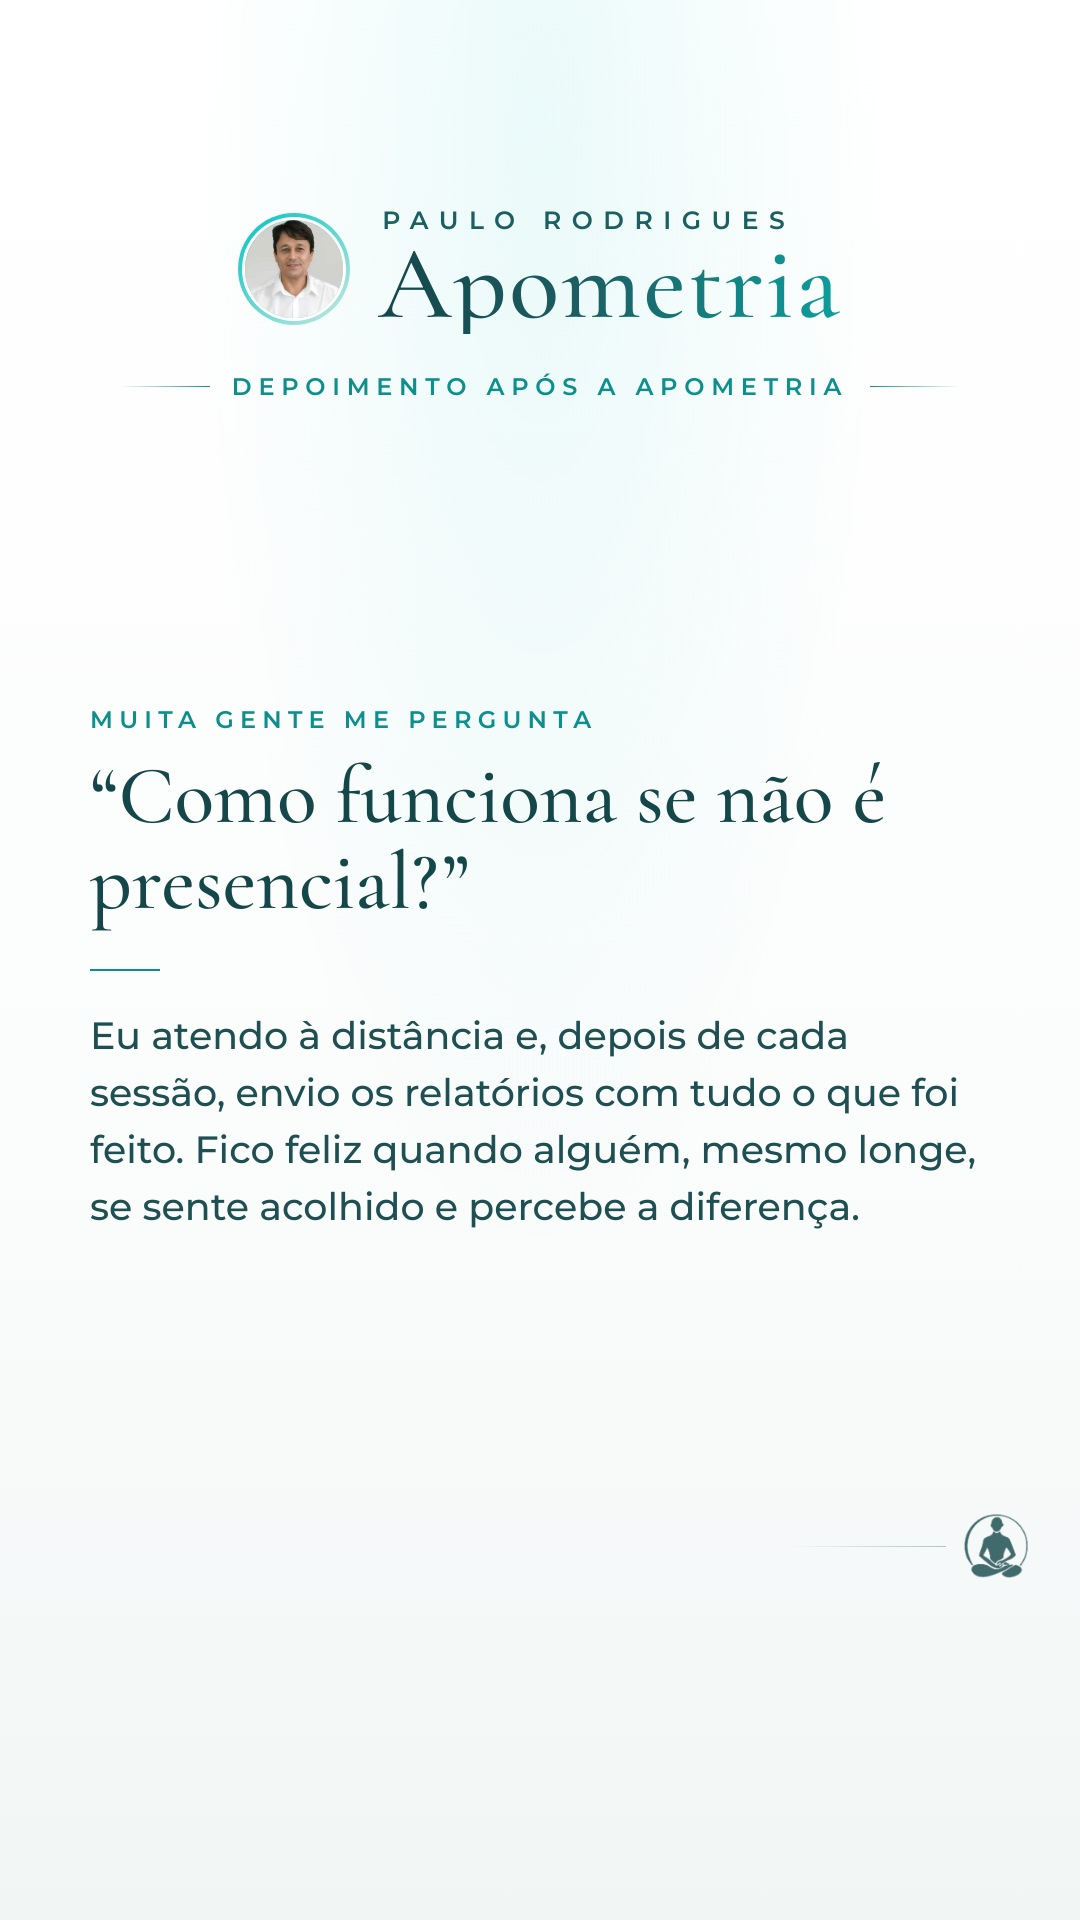
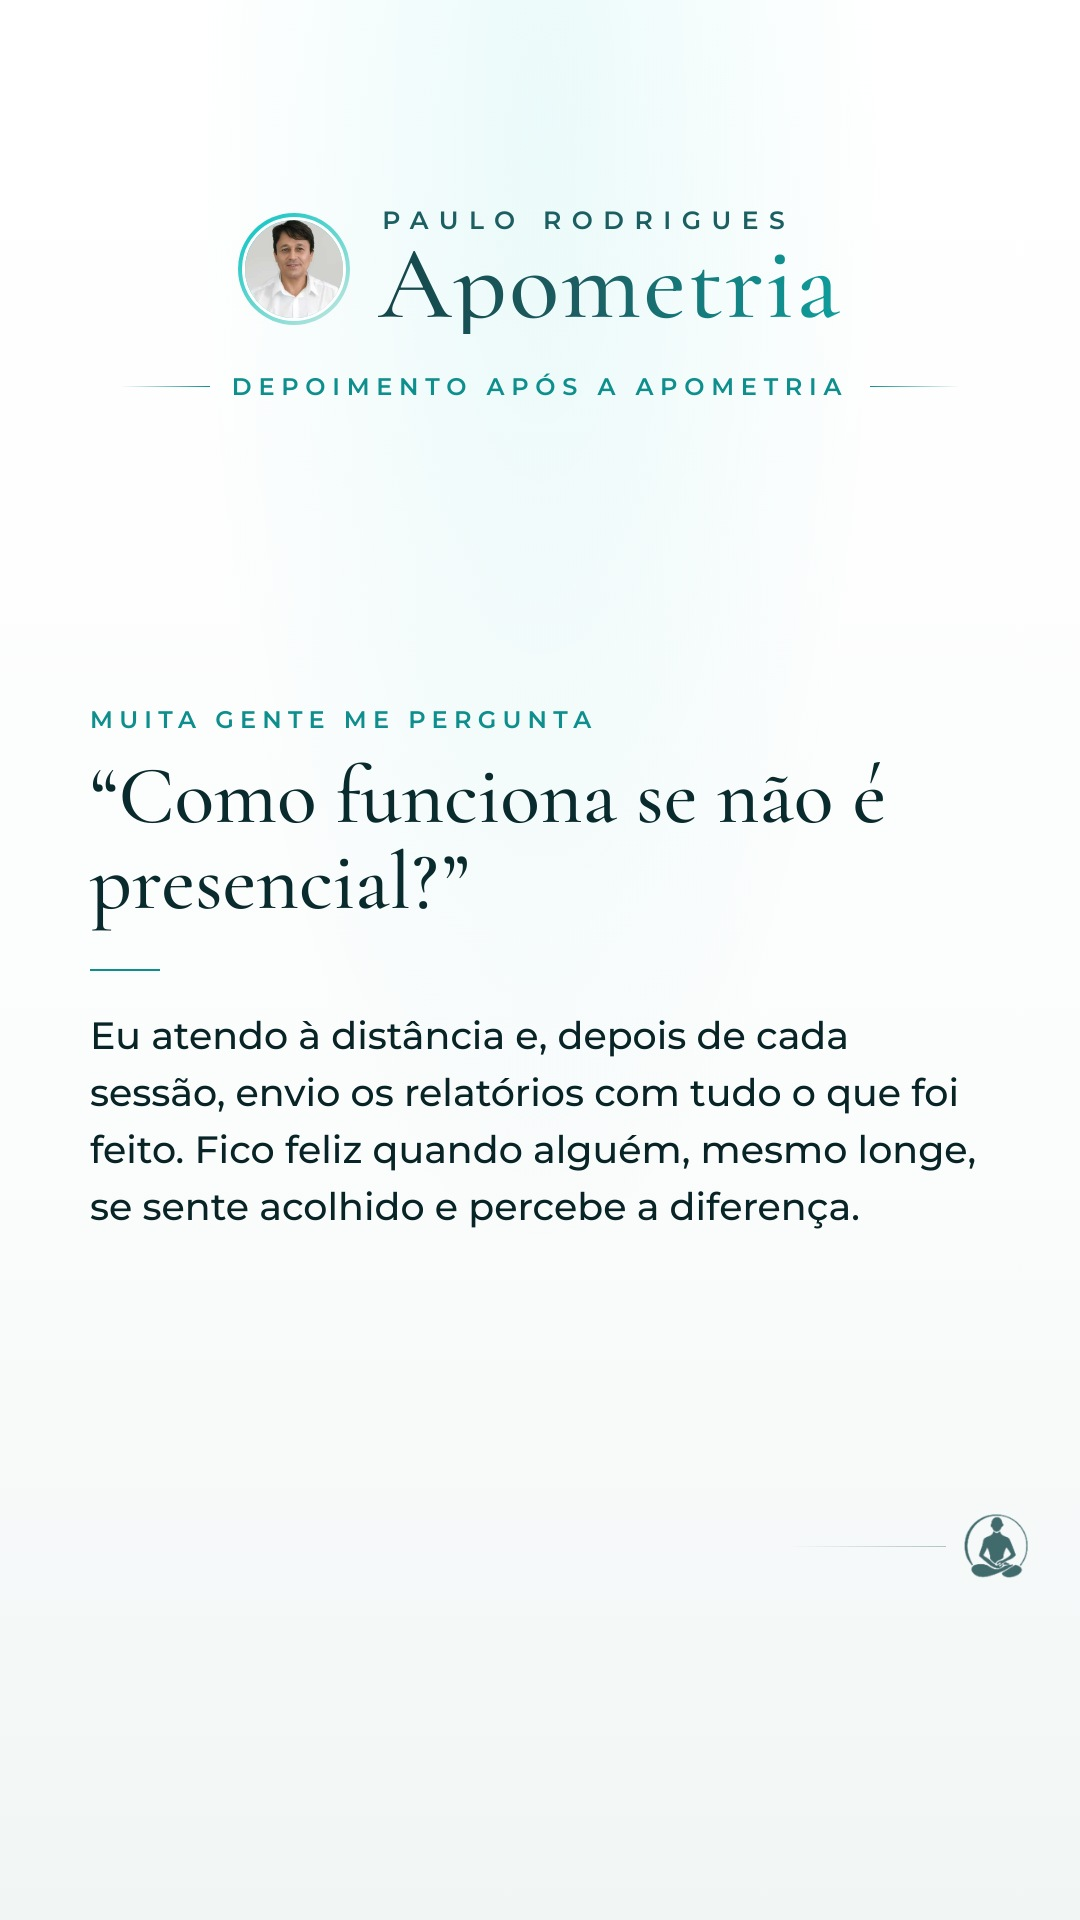
Depoimentos: texto explicativo mais escuro no fundo claro
Claude-Session: https://claude.ai/code/session_01JEWNugGqZtfRNNpR6FEnd2

diff --git a/modelos/remotion/src/DepoimentoAP.tsx b/modelos/remotion/src/DepoimentoAP.tsx
@@ -25,7 +25,7 @@ export const DepoimentoAP: React.FC<PropsAP> = ({pasta, fontes, foto, simbolo, v
   const d = itens[useCurrentFrame()];
   const arq = (a: string) => staticFile(`${pasta}/${a}`);
   const cl = !!d.claro;
-  const TX = cl ? '#14464A' : '#FFFFFF', SUB = cl ? '#1C5F63' : MENTA, AC = cl ? '#0E8F8E' : TURQ;
+  const TX = cl ? '#0A2B2E' : '#FFFFFF', SUB = cl ? '#1C5F63' : MENTA, AC = cl ? '#0E8F8E' : TURQ;
   const H = d.comentario && !d.separado ? 975 : 1040, W = Math.round(H * 0.466);
   return (
     <AbsoluteFill style={{background: cl ? 'linear-gradient(180deg, #FFFFFF 0%, #FBFCFC 60%, #F1F6F5 100%)' : 'linear-gradient(175deg, #10414B 0%, #0A2A33 50%, #061820 100%)', color: TX}}>
@@ -89,7 +89,7 @@ export const DepoimentoAP: React.FC<PropsAP> = ({pasta, fontes, foto, simbolo, v
           <div style={{fontFamily: 'AP-texto', fontWeight: 600, fontSize: 24, letterSpacing: '0.26em', color: AC}}>MUITA GENTE ME PERGUNTA</div>
           <div style={{fontFamily: 'AP-titulo', fontWeight: 500, fontSize: 82, lineHeight: 1.04, marginTop: 20}}>“{d.objecao}”</div>
           <div style={{width: 70, height: 2, background: AC, margin: '44px 0 36px'}} />
-          <div style={{fontFamily: 'AP-texto', fontWeight: 500, fontSize: 38, lineHeight: 1.5, opacity: 0.95, textWrap: 'pretty'} as React.CSSProperties}>{d.comentario}</div>
+          <div style={{fontFamily: 'AP-texto', fontWeight: 500, fontSize: 38, lineHeight: 1.5, opacity: cl ? 1 : 0.95, color: cl ? '#082426' : undefined, textWrap: 'pretty'} as React.CSSProperties}>{d.comentario}</div>
         </div>
       )}
 

diff --git a/marcas/apometria-brasil/aprendizados.md b/marcas/apometria-brasil/aprendizados.md
@@ -49,3 +49,4 @@ Os agentes leem este arquivo antes de criar.
 - 25/11/2026 · Comentários dos depoimentos: devem QUEBRAR OBJEÇÕES com humildade (dúvida real + resposta serena), nunca elogiar/engrandecer o próprio trabalho (soa arrogante). Vão num story SEPARADO, logo depois do print, no mesmo visual azul.
 - 25/11/2026 · Comentários de depoimento: NÃO falar que precisa de mais sessões nem que a mudança demora para aparecer. Comentar algo POSITIVO sobre o relato da pessoa (o que ela sentiu), respondendo à dúvida sem elogiar o próprio trabalho.
 - 25/11/2026 · Comentários de depoimento: escritos pelo Paulo em PRIMEIRA PESSOA, linguagem natural ("Fiquei muito feliz ao ler…", "Muita gente me pergunta"). Story do comentário com fundo BRANCO (textos em verde-petróleo); o story do print também fica claro (26/11).
+- 26/11/2026 · No fundo claro, o texto explicativo dos depoimentos vai em verde-petróleo bem escuro (#082426), sem transparência, para ler melhor.
